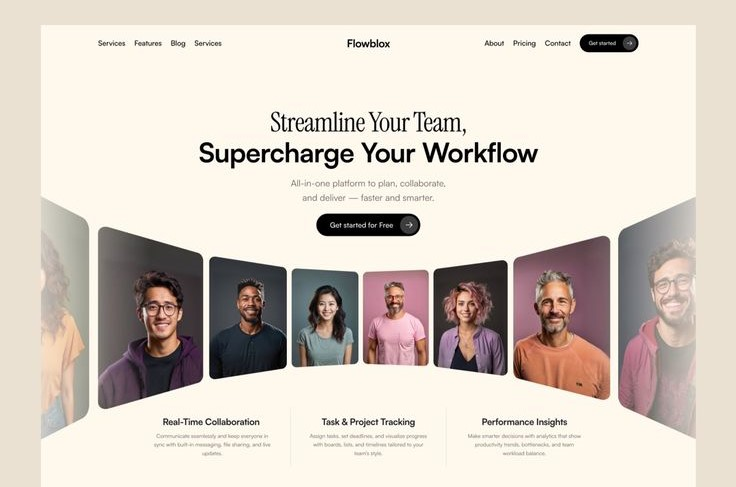
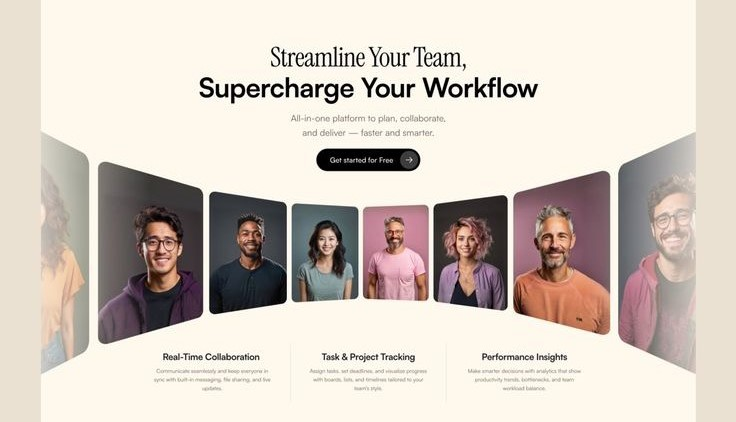
okk

diff --git a/index.html b/index.html
@@ -308,9 +308,9 @@ Each project reflects our commitment to modern technologies, responsive design, 
 
                 <div class="col-lg-4 col-md-6 portfolio-item filter-web">
             <div class="portfolio-wrap">
-              <img src="assets/img/Gene2612 - Farms and Agroservices.png" class="img-fluid" alt="">
+              <img src="assets/img/Gene2612 - Farms and Agroservices -.png" class="img-fluid" alt="">
               <div class="portfolio-links">
-                <a href="assets/img/Gene2612 - Farms and Agroservices.png" data-gallery="portfolioGallery" class="portfolio-lightbox" title=""><i class="bi bi-plus"></i></a>
+                <a href="assets/img/Gene2612 - Farms and Agroservices -.png" data-gallery="portfolioGallery" class="portfolio-lightbox" title=""><i class="bi bi-plus"></i></a>
                 <a href="https://gene2612farms.com.ng" title="Live Preview"><i class="bi bi-eye"></i></a>
               </div>
               <div class="portfolio-info">
@@ -321,10 +321,10 @@ Each project reflects our commitment to modern technologies, responsive design, 
           </div>
           <div class="col-lg-4 col-md-6 portfolio-item filter-web">
             <div class="portfolio-wrap">
-              <img src="assets/img/portfolio 3.jpg" class="img-fluid" alt="">
+              <img src="assets/img/Artsok.png" class="img-fluid" alt="">
               <div class="portfolio-links">
-                <a href="assets/img/portfolio 3.jpg" data-gallery="portfolioGallery" class="portfolio-lightbox" title=""><i class="bi bi-plus"></i></a>
-                <a href="assets/img/portfolio 3.jpg" title="Live Preview"><i class="bi bi-eye"></i></a>
+                <a href="assets/img/Artsok.png" data-gallery="portfolioGallery" class="portfolio-lightbox" title=""><i class="bi bi-plus"></i></a>
+                <a href="https://artsok.netlify.app/" title="Live Preview"><i class="bi bi-eye"></i></a>
               </div>
               <div class="portfolio-info">
 
@@ -388,6 +388,19 @@ Each project reflects our commitment to modern technologies, responsive design, 
               </div>
             </div>
           </div>
+                    <div class="col-lg-4 col-md-6 portfolio-item filter-web">
+            <div class="portfolio-wrap">
+              <img src="assets/img/Solprint.png" class="img-fluid" alt="">
+              <div class="portfolio-links">
+                <a href="assets/img/Solprint.png" data-gallery="portfolioGallery" class="portfolio-lightbox" title=""><i class="bi bi-plus"></i></a>
+                <a href="https://solprint.netlify.app/" title="Live Preview"><i class="bi bi-eye"></i></a>
+              </div>
+              <div class="portfolio-info">
+
+                <p>Landing Page Website</p>                  
+              </div>
+            </div>
+          </div>
              <div class="col-lg-4 col-md-6 portfolio-item filter-web">
             <div class="portfolio-wrap">
               <img src="assets/img/Gymhouse -.png" class="img-fluid" alt="">
@@ -411,6 +424,48 @@ Each project reflects our commitment to modern technologies, responsive design, 
               <div class="portfolio-info">
 
                 <p>Landing Page Website</p>                  
+              </div>
+            </div>
+          </div>
+
+                   <div class="col-lg-4 col-md-6 portfolio-item filter-web">
+            <div class="portfolio-wrap">
+              <img src="assets/img/feedback app.png" class="img-fluid" alt="">
+              <div class="portfolio-links">
+                <a href="assets/img/feedback app.png" data-gallery="portfolioGallery" class="portfolio-lightbox" title=""><i class="bi bi-plus"></i></a>
+                <a href="https://ksridefeedback.onrender.com/" title="Live Preview"><i class="bi bi-eye"></i></a>
+              </div>
+              <div class="portfolio-info">
+
+                <p>Feedback website</p>                  
+              </div>
+            </div>
+          </div>
+
+           <div class="col-lg-4 col-md-6 portfolio-item filter-web">
+            <div class="portfolio-wrap">
+              <img src="assets/img//faithub.png" class="img-fluid" alt="">
+              <div class="portfolio-links">
+                <a href="assets/img/faithub.png" data-gallery="portfolioGallery" class="portfolio-lightbox" title=""><i class="bi bi-plus"></i></a>
+                <a href="https://faithhub.netlify.app/" title="Live Preview"><i class="bi bi-eye"></i></a>
+              </div>
+              <div class="portfolio-info">
+
+                <p>Personal website</p>                  
+              </div>
+            </div>
+          </div>
+
+                   <div class="col-lg-4 col-md-6 portfolio-item filter-web">
+            <div class="portfolio-wrap">
+              <img src="assets/img/Youth Anniversary.png" class="img-fluid" alt="">
+              <div class="portfolio-links">
+                <a href="assets/img/Youth Anniversary.png" data-gallery="portfolioGallery" class="portfolio-lightbox" title=""><i class="bi bi-plus"></i></a>
+                <a href="https://i-will-be-attending.onrender.com/" title="Live Preview"><i class="bi bi-eye"></i></a>
+              </div>
+              <div class="portfolio-info">
+
+                <p>Event website</p>                  
               </div>
             </div>
           </div>
@@ -560,6 +615,7 @@ Each project reflects our commitment to modern technologies, responsive design, 
               <li><i class="bx bx-check"></i> Payment integration</li>
               <li><i class="bx bx-check"></i> Basic SEO</li>
               <li><i class="bx bx-check"></i> Admin dashboard</li>
+              <li><i class="bx bx-check"></i> Custom Domain and Hosting</li>
             </ul>
             <a href="https://api.whatsapp.com/send/?phone=2347053088651&text=Hello+there%21%0AI%27m+interested+in+your+Business website package" class="get-started-btn">Get Started</a>
           </div>
@@ -573,6 +629,7 @@ Each project reflects our commitment to modern technologies, responsive design, 
               <li><i class="bx bx-check"></i> Advanced features (login system, reports, advanced animations)</li>
               <li><i class="bx bx-check"></i> Payment Integration</li>
               <li><i class="bx bx-check"></i> Advanced SEO setup</li>
+              <li><i class="bx bx-check"></i> Custom Domain and Hosting</li>
               <li><i class="bx bx-check"></i> Maintenance</li>
             </ul>
             <a href="https://api.whatsapp.com/send/?phone=2347053088651&text=Hello+there%21%0AI%27m+interested+in+your+Premium website package" class="get-started-btn">Get Started</a>

diff --git a/assets/js/main.js b/assets/js/main.js
@@ -271,13 +271,13 @@ document.getElementById("whatsapp-form").addEventListener("submit", function(e) 
     const message = document.getElementById("message").value.trim();
 
     const whatsappMessage = encodeURIComponent(
-        `Hello Kaysotech Team,%0A%0A` +
-        `*Name:* ${name}%0A` +
-        `*Email:* ${email}%0A` +
-        `*Project Type:* ${projectType}%0A` +
-        `*Development Type:* ${developmentType}%0A` +
-        `*Budget:* ${budget}%0A` +
-        `*Timeline:* ${timeline}%0A%0A` +
+        `Hello Kaysotech Team,` +
+        `*Name:* ${name}` +
+        `*Email:* ${email}` +
+        `*Project Type:* ${projectType}` +
+        `*Development Type:* ${developmentType}` +
+        `*Budget:* ${budget}` +
+        `*Timeline:* ${timeline}` +
         `*Project Details:* ${message}`
     );
 
